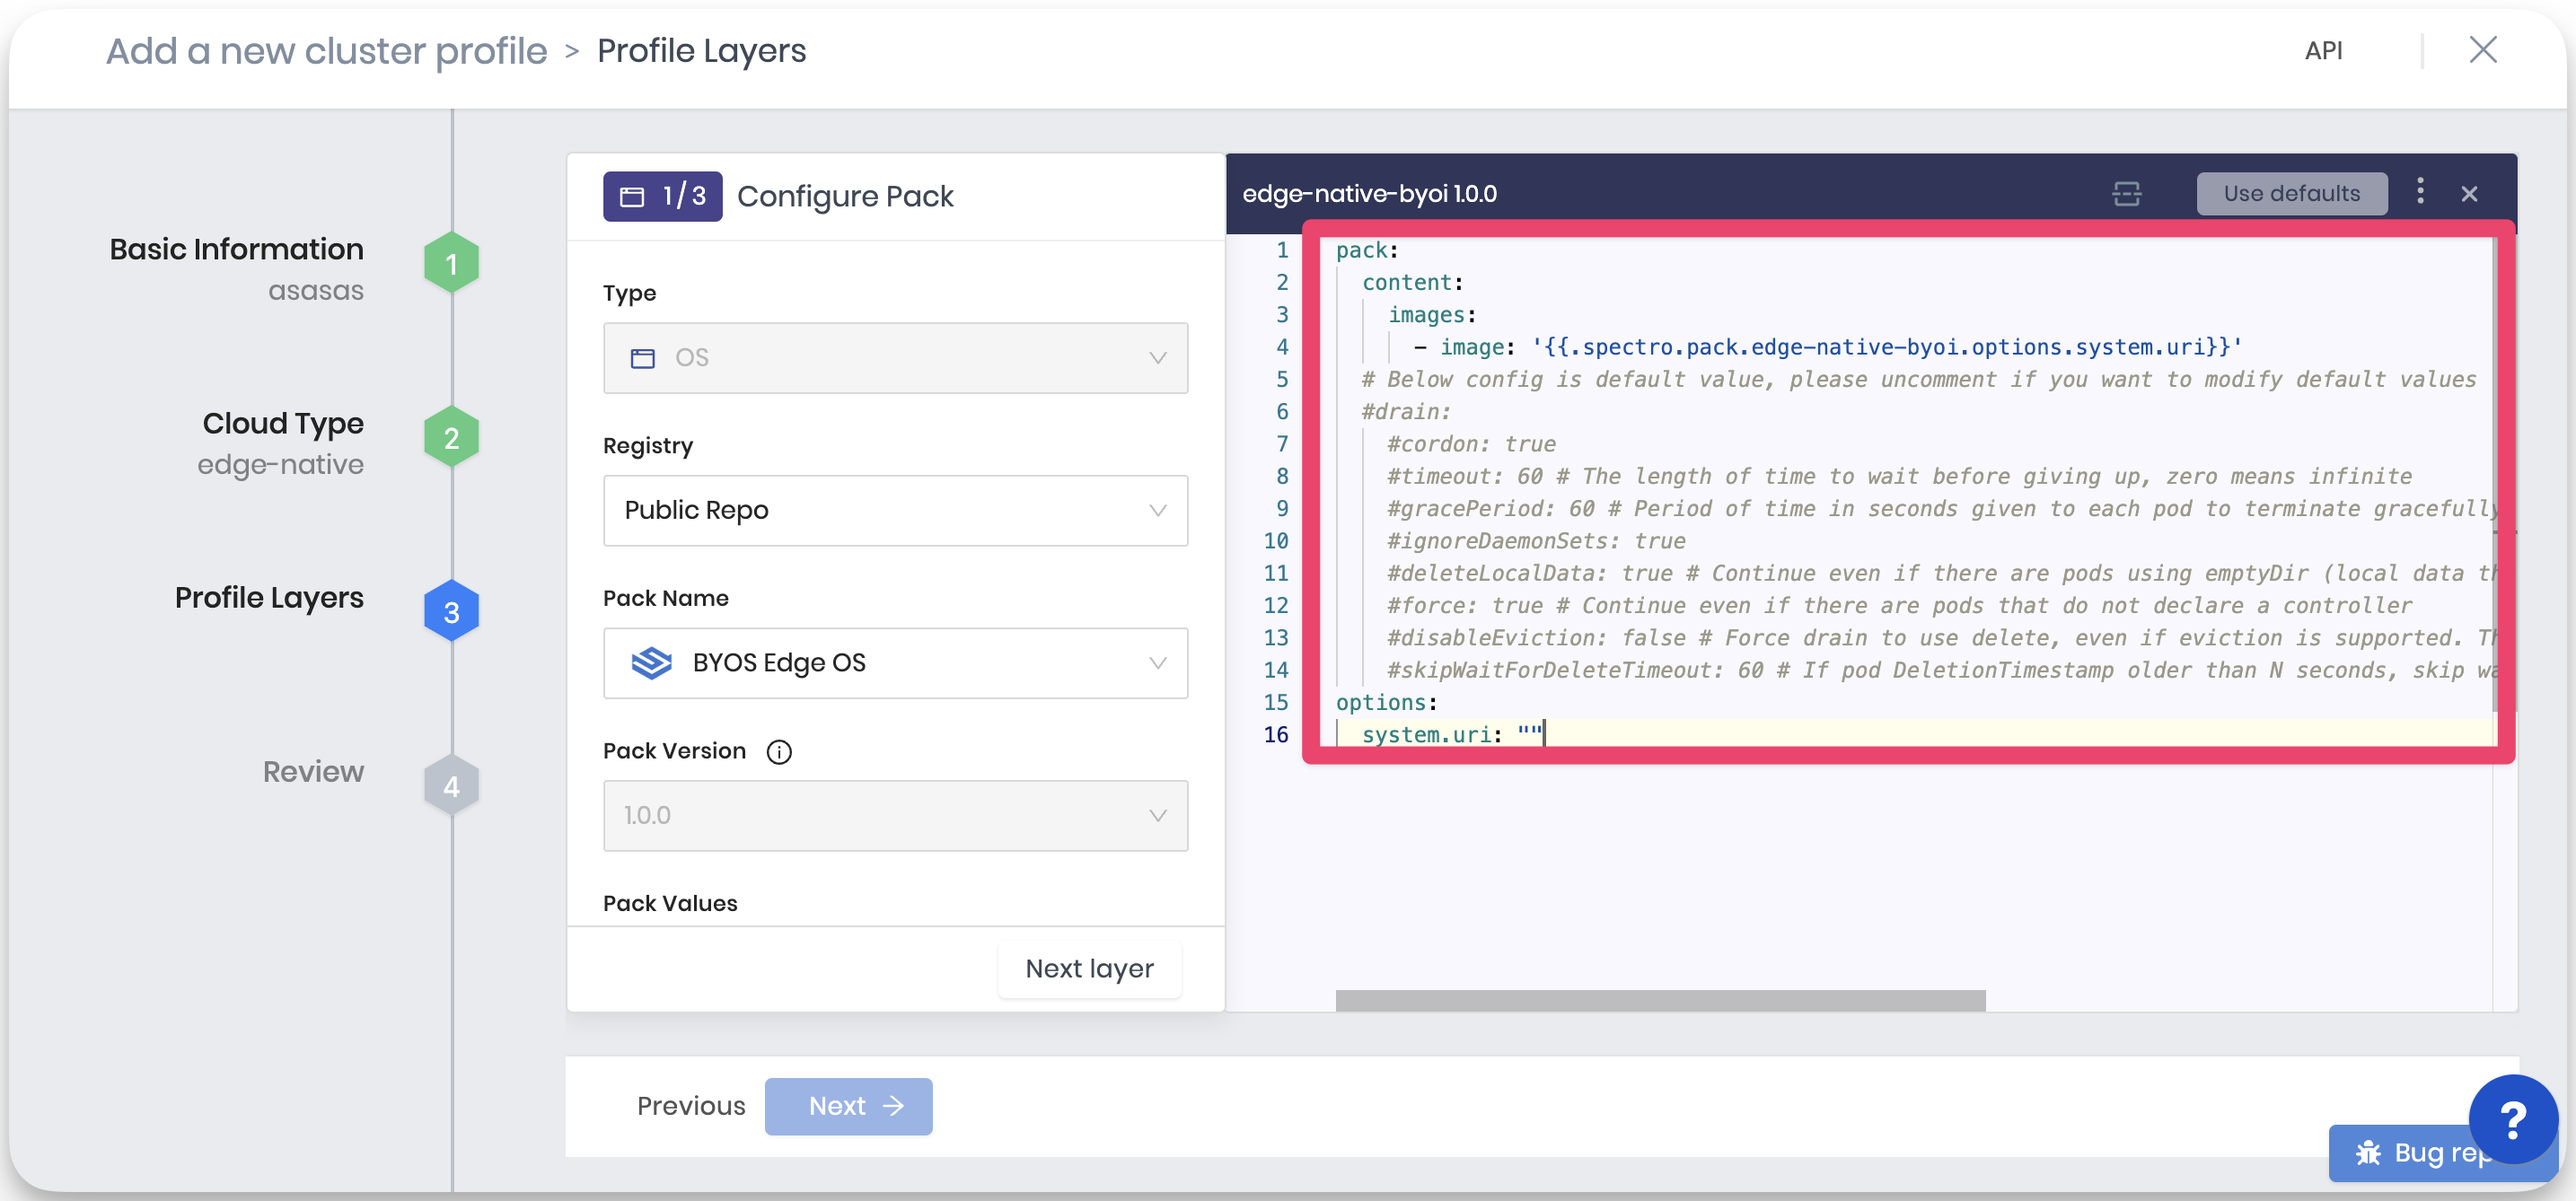
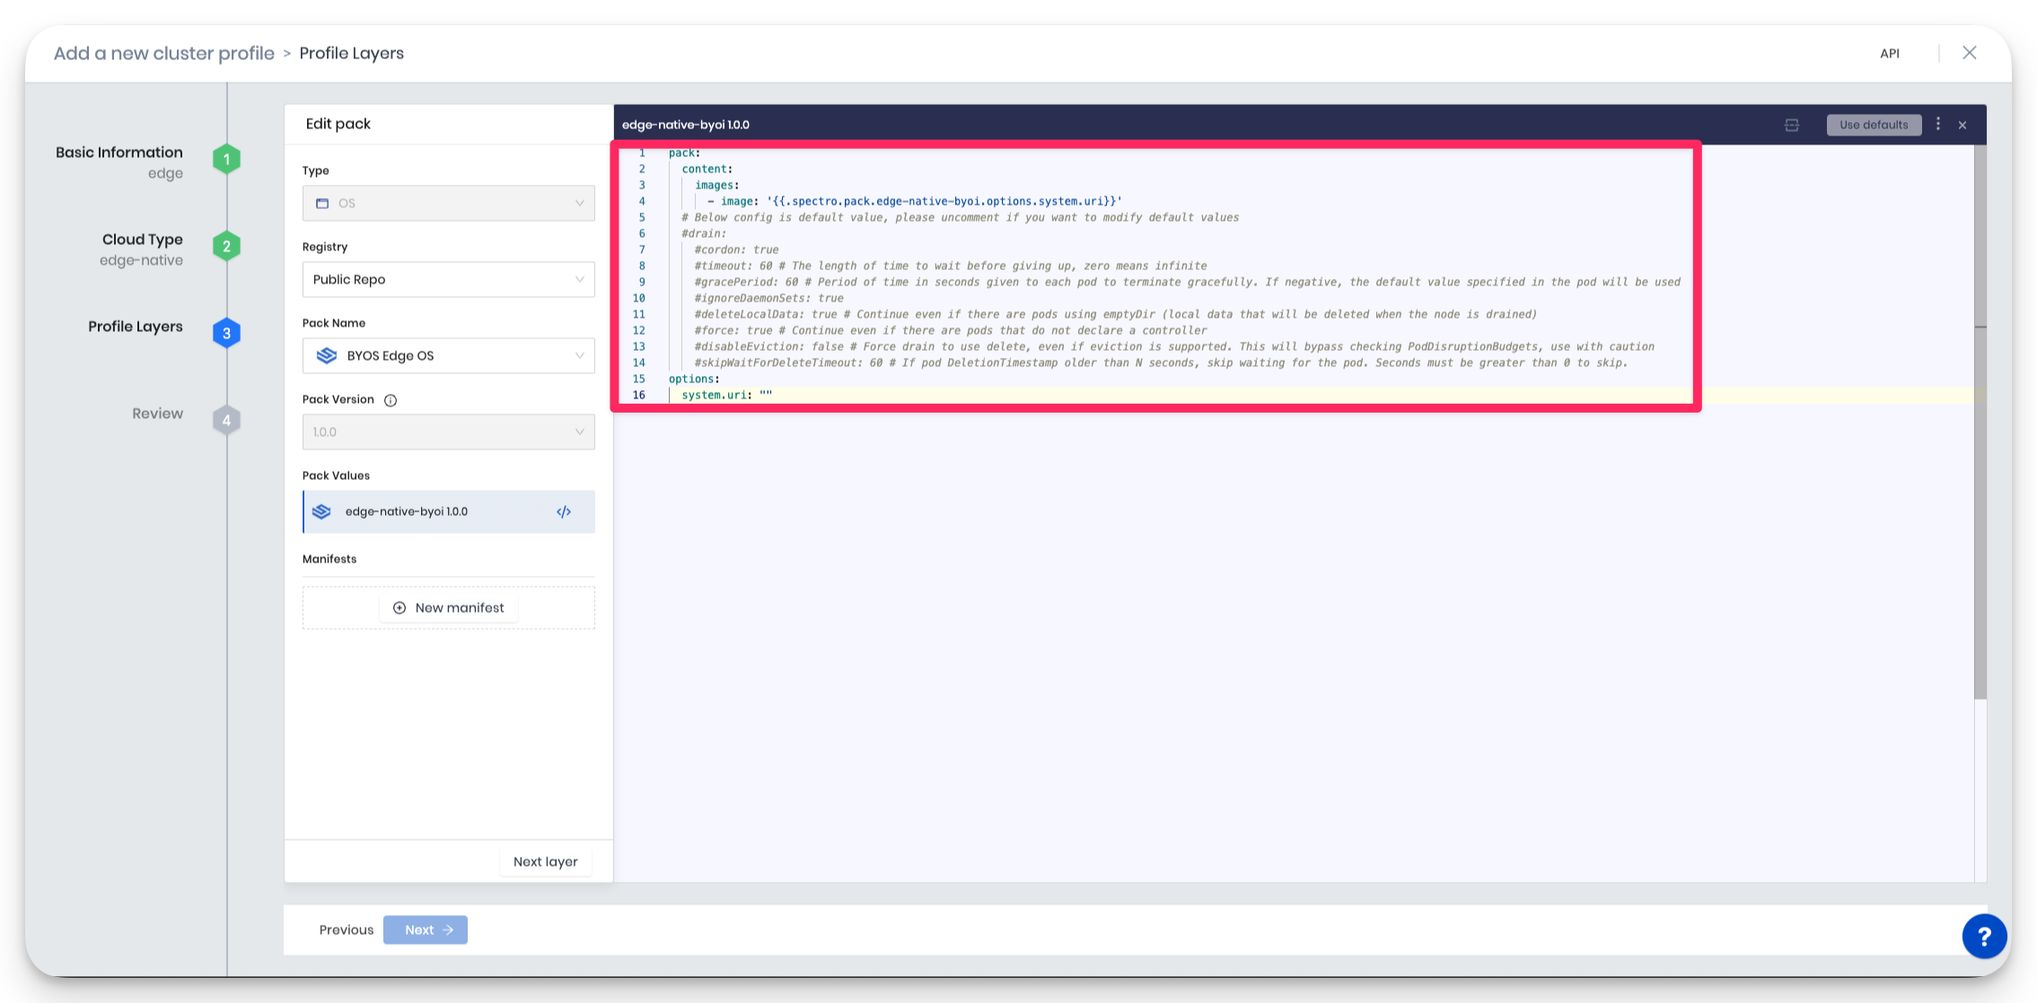
chore: DOC-778 final touches

diff --git a/content/docs/04-clusters/03-edge/09-site-deployment/01-model-profile.md b/content/docs/04-clusters/03-edge/09-site-deployment/01-model-profile.md
@@ -88,8 +88,17 @@ The following steps will guide you on how to create a cluster profile for Edge. 
     images: 
       - image: '{{.spectro.pack.edge-native-byoi.options.system.uri}}'
       # - image: example.io/my-other-images/example:v1.0.0 
-      # - image: example.io/my-super-other-images/example:v1.0.0 
-      
+      # - image: example.io/my-super-other-images/example:v1.0.0
+   #drain:
+      #cordon: true
+      #timeout: 60 # The length of time to wait before giving up, zero means infinite
+      #gracePeriod: 60 # Period of time in seconds given to each pod to terminate gracefully. If negative, the default value specified in the pod will be used
+      #ignoreDaemonSets: true
+      #deleteLocalData: true # Continue even if there are pods using emptyDir (local data that will be deleted when the node is drained)
+      #force: true # Continue even if there are pods that do not declare a controller
+      #disableEviction: false # Force drain to use delete, even if eviction is supported. This will bypass checking PodDisruptionBudgets, use with caution
+      #skipWaitForDeleteTimeout: 60 # If pod DeletionTimestamp older than N seconds, skip waiting for the pod. Seconds must be greater than 0 to skip.
+    
   options: 
     system.uri: example.io/my-images/example-custom-os:v1.4.5
   ```
@@ -98,7 +107,7 @@ The following steps will guide you on how to create a cluster profile for Edge. 
 
   <InfoBox>
 
-   You can specify additional images that you may have created that are part of the content bundle. Specify any additional image required by the cluster profile in the `images` section. Add an `- image: ` entry for each image you need to specify. Refer to the [BYOOS Pack](/integrations/byoos) resource to learn more about the pack details.
+   You can customize the node drainage behavior and specify additional images that you may have created that are part of the content bundle. Specify any additional image required by the cluster profile in the `images` section. Add an `- image: ` entry for each image you need to specify. Refer to the [BYOOS Pack](/integrations/byoos) resource to learn more about the pack details.
 
   </InfoBox>
 

diff --git a/content/docs/06-integrations/00-byoos.md b/content/docs/06-integrations/00-byoos.md
@@ -46,7 +46,7 @@ The BYOS Edge OS pack supports the following parameters.
 
 | Parameter            | Description                                            | Type | Default Value |
 |----------------------|--------------------------------------------------------|------| ------------- |
-| `pack:content:` | Specifies the content of the **BYOS Edge OS** pack. | map | N/A |
+| `pack:content` | Specifies the content of the **BYOS Edge OS** pack. | map | N/A |
 | `pack.content.images` | Specifies a list of OS images to use with the pack. | list | N/A |
 | `pack.content.images.image` | An OS image to use with the pack. | string| `'{{.spectro.pack.edge-native-byoi.options.system.uri}}'`|
 | `pack.drain:` | Specifies the drain configuration for the node. | map | N/A
@@ -96,7 +96,7 @@ Select the BYOOS pack and fill out the required parameters during the cluster pr
 
 ![A view of the Kubernetes pack editor with a YAML configuration](/clusters_site-deployment_model-profile_byoos-pack-yaml.png)
 
-
+<br />
 
 ### Node Drainage
 
@@ -111,6 +111,19 @@ To enable node drainage, you must include the `pack.drain` parameter block and s
     drain:
       cordon: true
   ```
+
+You can customize the node drainage process by using the additional parameters in the `pack.drain` parameter block. Refer to the [parameters](#parameters) section for a list of the supported parameters.
+
+You can change the node drainage behavior after a cluster is deployed by updating the cluster profile and applying the changes to the cluster. 
+
+<br />
+
+<WarningBox>
+
+Changing the node drainage behavior after a cluster is deployed will trigger a rolling update on the cluster nodes. Each node will reboot so that the new node drainage behavior can be applied.
+
+</WarningBox>
+
 
 
 

diff --git a/content/docs/00-release-notes.md b/content/docs/00-release-notes.md
@@ -128,6 +128,8 @@ Palette 4.0.0 introduces new features and improvements, including [Palette Verte
 - You can now skip the auto registration of Edge hosts in Palette. This allows you to manually register your Edge hosts in Palette by either using the QR code method or by providing the machine ID in Palette. Set the Edge Installer configuration parameter `disableAutoRegister` to `true` to turn off auto registration. Refer to the [Edge Installer Configuration](/clusters/edge/edge-configuration/installer-reference) documentation to learn more.
 
 
+- You can configure the node drainage behavior for your Edge hosts. To learn more about configuring node drainage, refer to the [Bring Your Own OS (BYOOS) pack](/integrations/byoos#nodedrainage) documentation.
+
 
 
 <h2 id="release-4-0-pde">Palette Dev Engine (PDE)</h2>
